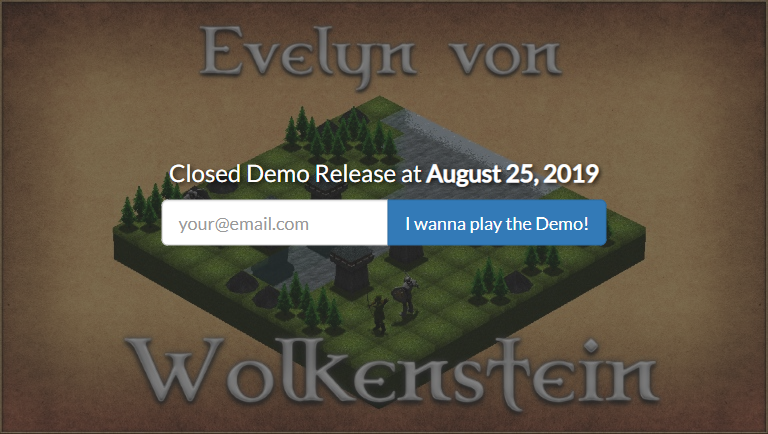
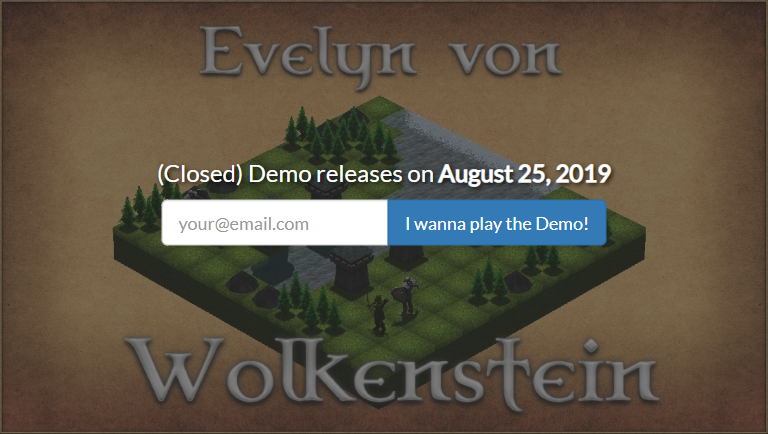
fgh

Changed region(s): [[0.1875, 0.3594, 0.8125, 0.4493]]

diff --git a/index.html b/index.html
@@ -46,14 +46,14 @@
 			<img id="promo_image" src="img/evelyn.jpg" title="Follow development on Twitter">
 		  </a>
 		  <div class="centered">
-			<p class="">Closed Demo Release at<br id="break"> <b>August 25, 2019</b></p>
+			<p class="">(Closed) Demo releases on<br id="break"> <b>August 25, 2019</b></p>
 			<div id="subscribe-box" class="input-group">
 				<form id="myForm">
 					<div class="form-group">
 						<div class="input-group">
 							<input id="mail" type="email" class="form-control input-lg" placeholder="your@email.com" title="Enter the mail address you want to be notified at">
 							<span class="input-group-btn">
-								<input id="subscribe" class="btn btn-primary btn-lg" type="submit" value="I wanna play the Demo!" title="Subscribe for the closed demo which relases at August 25, 2019">
+								<input id="subscribe" class="btn btn-primary btn-lg" type="submit" value="I wanna play the Demo!" title="Subscribe for the closed demo which relases on August 25, 2019">
 							</span>
 						</div>
 					</div>
